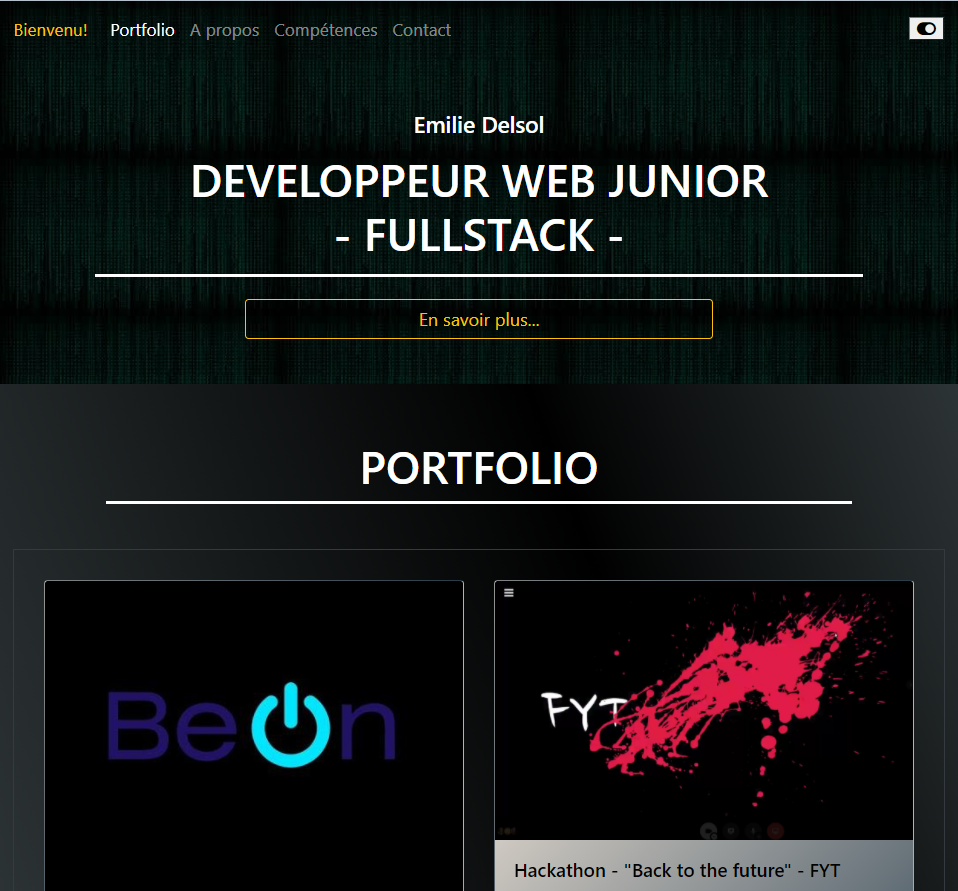
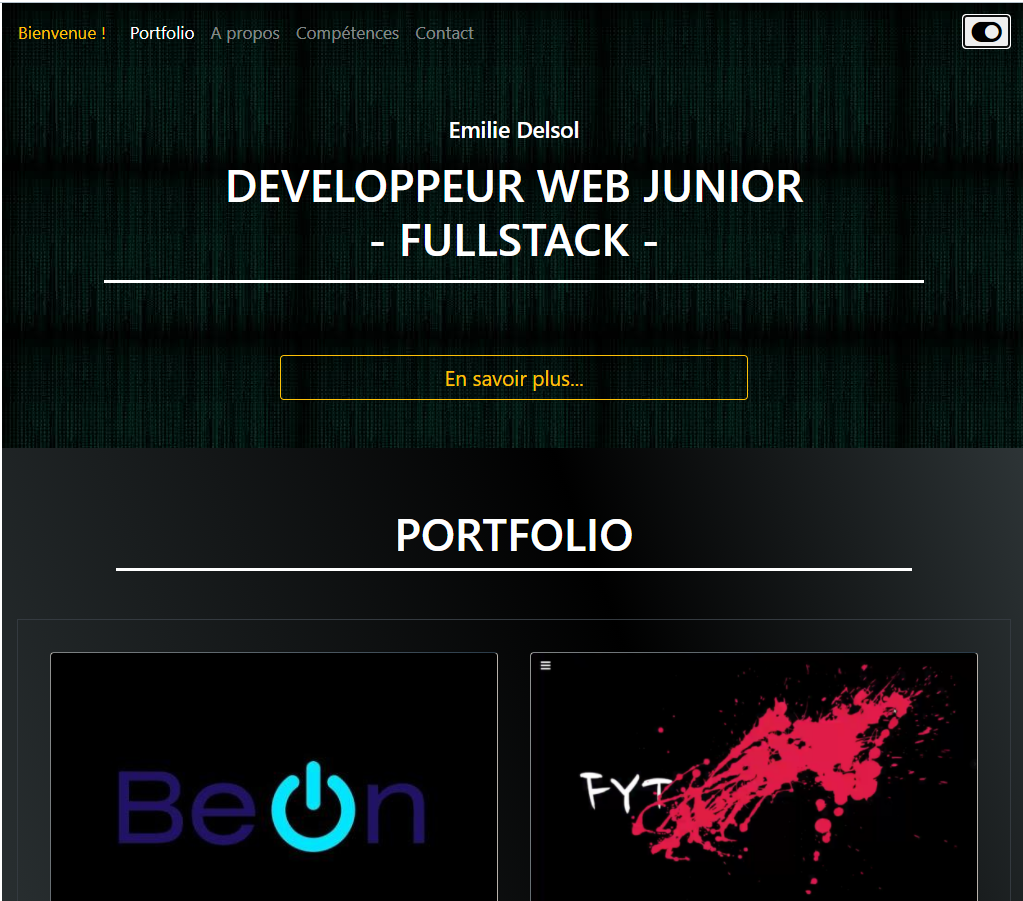
modification images card portfolio et correction petites erreurs

diff --git a/index.html b/index.html
@@ -16,7 +16,7 @@
 
         <nav class=" darkBGimg navbarTextSize navbar navbar-expand-lg navbar-dark  fixed-top">
             <h2 class="d-none">Emilie Delsol</h2>
-            <a class=" navbar-brand text-warning" href="./index.html">Bienvenu!</a>
+            <a class=" navbar-brand text-warning" href="./index.html">Bienvenue !</a>
             <button class="d-flex d-lg-none" type = "button" onclick = "whiteFunction ()" ><i class="fas fa-toggle-on toggleButton " id="toggleOn" ></i><i class="fas fa-toggle-off toggleButton d-none" id="toggleOff"></i></button>
 
             <button class="navbar-toggler" type="button" data-toggle="collapse" data-target="#navbarTogglerDemo02" aria-controls="navbarTogglerDemo02" aria-expanded="false" aria-label="Toggle navigation">
@@ -78,8 +78,7 @@
                             <h5 class="card-title ">Hackathon - "Back to the future" - FYT</h5>
                             <p class="card-text ">C# API-REST SQLServer ReactJS,  - nov. 2020 / nov. 2020</p>
                                 <p class="card-text ">
-                                Création d'une application web front et back end en 24h - API REST .netCore et sa
-                                base de données hébergées en ligne - Collaboration avec une équipe Front End</p>
+                                    Création d'une application web d'organisation de tournois de chevaliers en 24h</p>
                             <a href="https://github.com/emilieDelsol/WCS-Hackathon-BackToTheFuture-FYT.git" class="btn btn-dark btn-outline-warning">Lien github</a>
                         </div>
                     </div>
